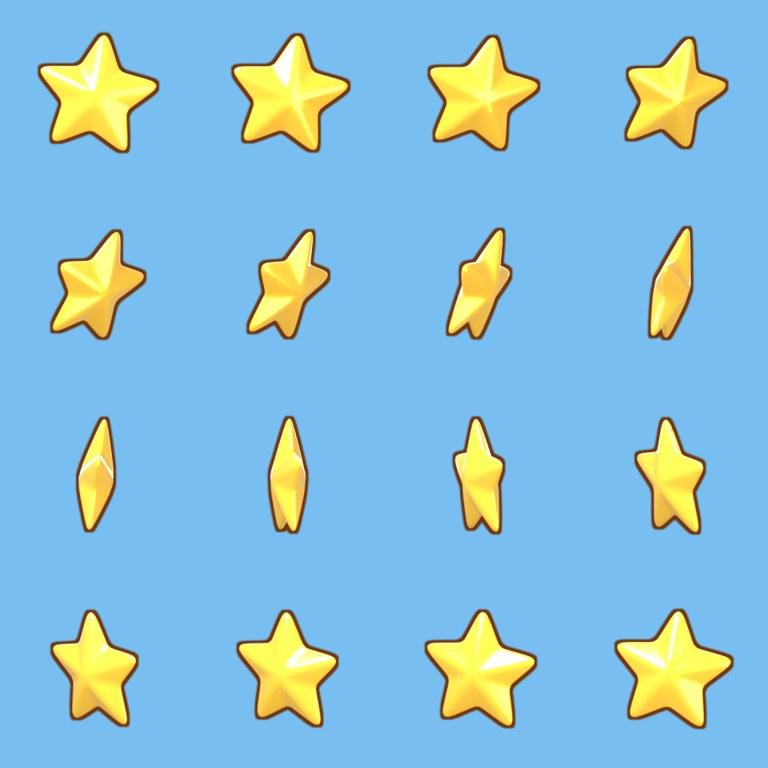
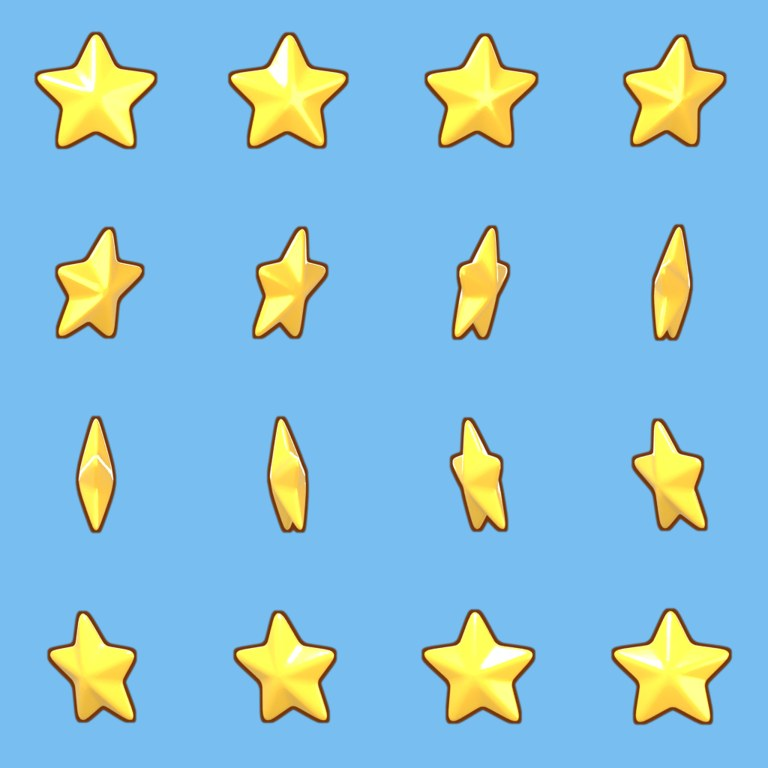
vault backup: 2026-11-12 21:36:08

diff --git a/Roblox Playbook/Research notes/MEGA BITE/2026-11-12 MEGA BITE - EXP stars made 2D (3D look).md b/Roblox Playbook/Research notes/MEGA BITE/2026-11-12 MEGA BITE - EXP stars made 2D (3D look).md
@@ -1,0 +1,14 @@
+# MEGA BITE - EXP stars made 2D with a 3D look (12 Nov 2026, 21:30)
+Owner: "dont make the stars 3d anymore, make it 2d but the art style must look 3d". Follows [[2026-11-12 MEGA BITE - EXP star VFX + sounds]].
+
+## What changed
+- The reward stars were real meshes (MB_VFX.Kit.Star3D) in a full-screen ViewportFrame. Now they are plain ImageLabels playing a spin flipbook. The ViewportFrame and its camera are gone (cheaper on phones, no 3D layer to render).
+- Art: a puffy 5-point gold star built and rendered in Blender (Cycles, 48 samples): raised centre with a ridge to each tip, heavy bevel, gold (base 1.0/0.66/0.06, metallic 0.55, roughness 0.22, clear coat), soft key from top-left, warm fill, rim light from behind.
+- 16 frames of a half turn (the star looks the same from the back, so a half turn loops) with an 18 deg wobble, 256 px cells in a 1024 px 4x4 sheet. Dark warm-orange outline (4 px) added in Python so it reads on any background.
+- Image asset **100838108513631** (Approved). Files: `Art\StarSpin2D\` (star.py, proc.py, sheet, dark/light previews).
+- MB_UIMotion: each star gets a random start frame, spin speed 22-34 frames/s, random direction and a ±14 deg tilt, so a burst never looks copy-pasted. Size about 5% of screen height (30-52 px), grows to 1.25x at the top of the pop, shrinks to 0.55x as it reaches the counter. Halo, sparkle trail, twinkle, landing flash and the sound ladder are unchanged.
+- Checked in Play: a 9-star burst reads as glossy solid 3D stars spinning at different angles, then flies into the EXP counter. Test hook removed.
+- Backup: ServerStorage.MB_UIMotion_pre2DStars_12Nov.
+
+## Lesson (K06)
+A "3D-looking" UI item does not need 3D: render the real 3D object to a short spin flipbook once and play it with ImageRectOffset. Same look, no ViewportFrame cost, and each copy can start on a different frame and spin at its own speed.
